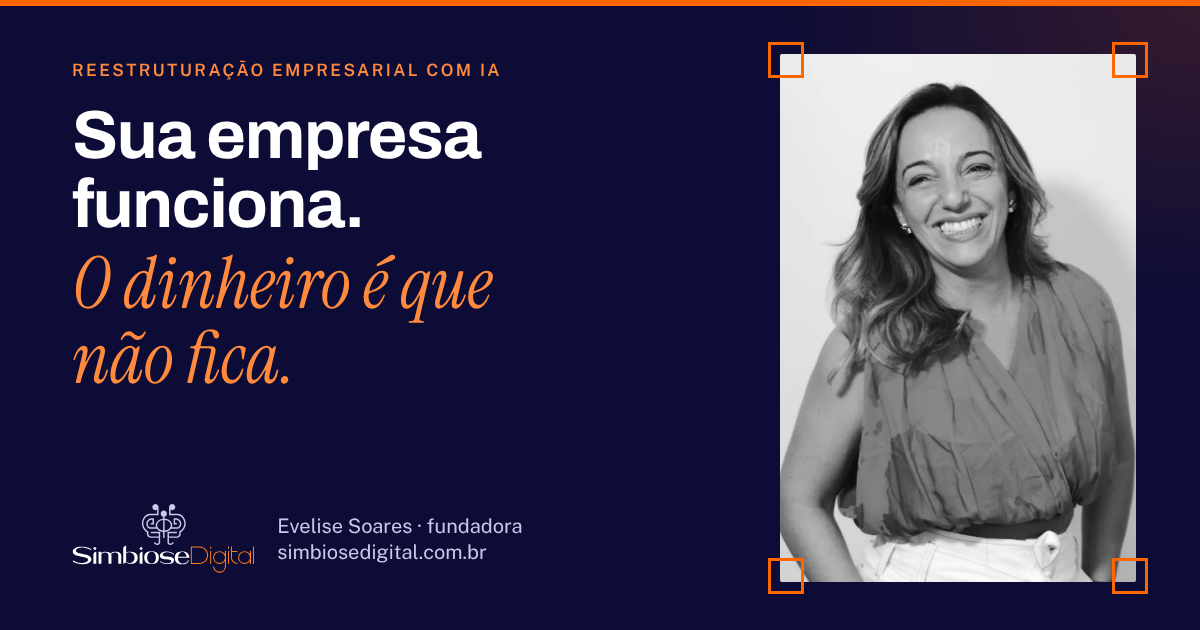
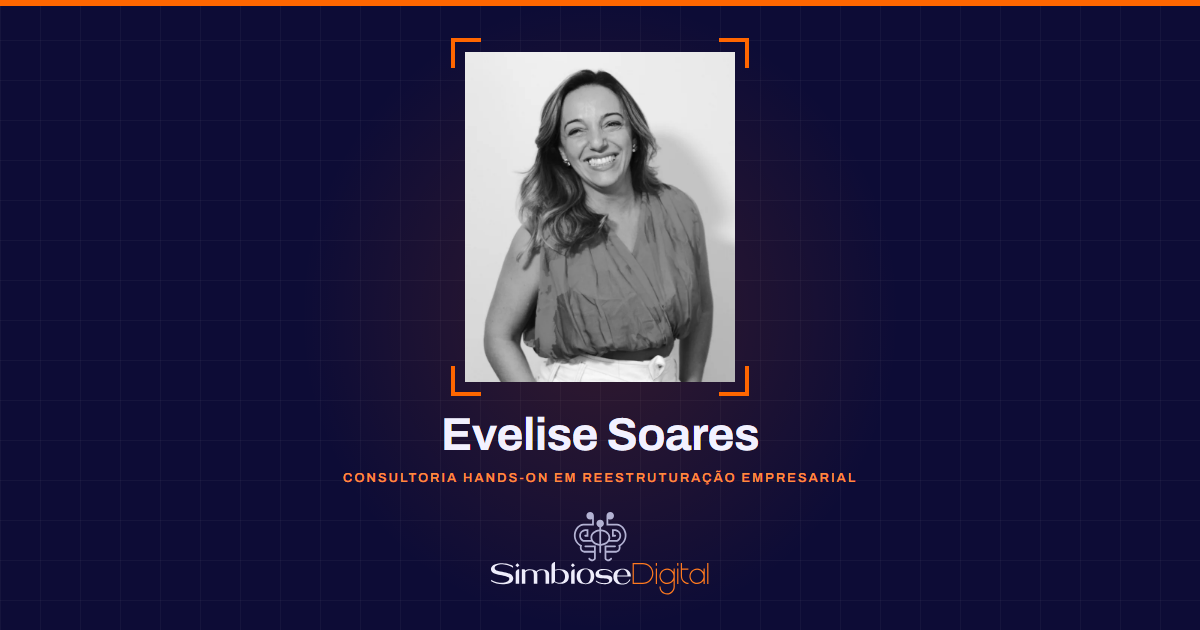
Nova imagem e texto da prévia do link

diff --git a/index.html b/index.html
@@ -6,15 +6,15 @@
 <meta property="og:type" content="website">
 <meta property="og:url" content="https://simbiosedigital.com.br/">
 <meta property="og:title" content="Simbiose Digital · Evelise Soares">
-<meta property="og:description" content="Sua empresa funciona. O dinheiro é que não fica. Reestruturação empresarial com IA, mão na massa.">
-<meta property="og:image" content="https://simbiosedigital.com.br/og.png">
+<meta property="og:description" content="Consultoria hands-on em reestruturação empresarial, com apoio de ferramentas de IA.">
+<meta property="og:image" content="https://simbiosedigital.com.br/og.png?v=2">
 <meta property="og:image:width" content="1200"><meta property="og:image:height" content="630">
 <meta name="twitter:card" content="summary_large_image">
 <link rel="icon" href="favicon.svg" type="image/svg+xml">
 <style>:root{padding-top:env(safe-area-inset-top,0px);padding-bottom:env(safe-area-inset-bottom,0px);color-scheme:light}body{margin:0}img{max-width:100%}[hidden]{display:none!important}</style>
 <title>Simbiose Digital</title>
 <meta name="claude:viewport-fit-sides" content="cover">
-<meta name="description" content="Simbiose Digital: reestruturação empresarial com IA. Consultoria mão na massa de Evelise Soares para empresas onde o dinheiro não sobra no fim do mês.">
+<meta name="description" content="Simbiose Digital: consultoria hands-on em reestruturação empresarial com Evelise Soares, com apoio de ferramentas de IA.">
 <link rel="preconnect" href="https://fonts.googleapis.com">
 <link rel="preconnect" href="https://fonts.gstatic.com" crossorigin>
 <link rel="stylesheet" href="https://fonts.googleapis.com/css2?family=Archivo:wdth,wght@75..100,400..800&family=Instrument+Serif:ital@0;1&family=Public+Sans:ital,wght@0,400;0,600;1,400&display=swap">
